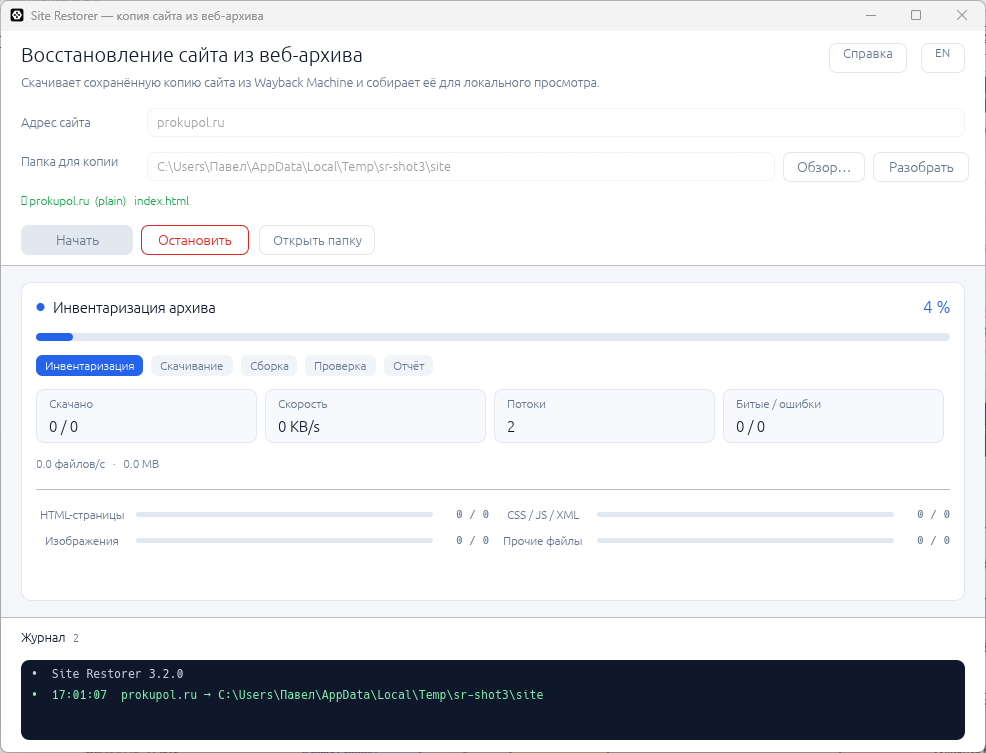
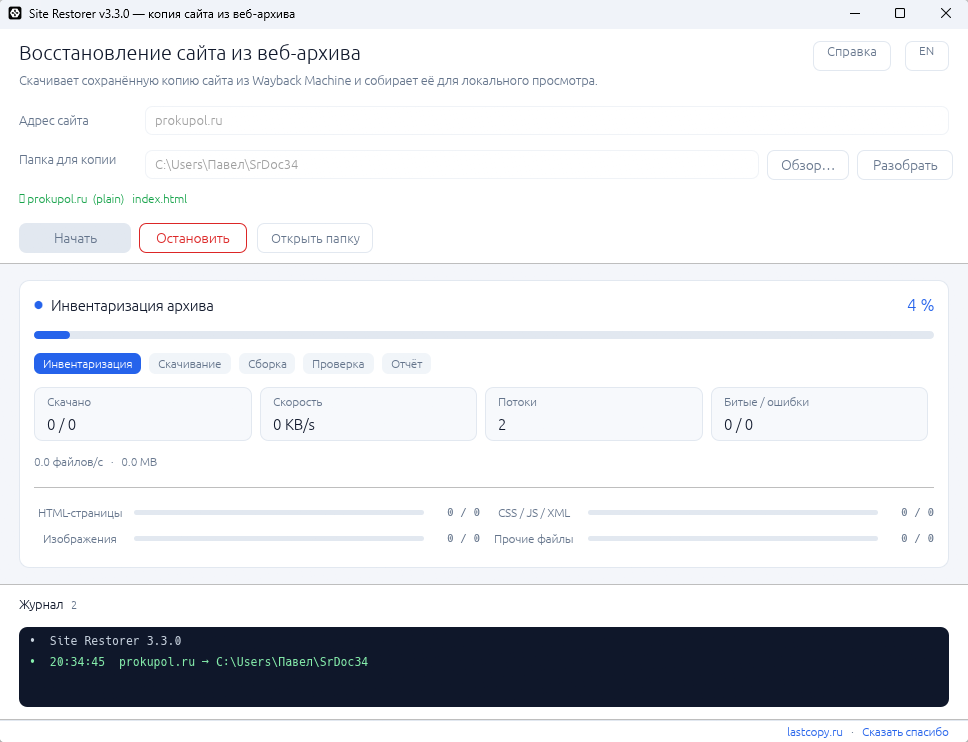
feat(ui): version in the title bar and links in the bottom strip
Window title is built as 'Site Restorer v<version> - <subtitle>' so the number
always matches --version. A new bottom panel holds the product site and the
support link; it is declared before the log panel, otherwise it would sit above
the log. Links open the default browser on click only, and a failure is logged
as a warning instead of interrupting the run.

Requirements: FT-113 (title), FT-114 (site link), FT-115 (support link),
BZ-12 (click-only links), ER-11 (strip look), PRM-13 (acceptance check).
TZ 2.5, DESIGN 1.3, screenshots refreshed.

Tests 63 instead of 60.

diff --git a/landing/index.html b/landing/index.html
@@ -189,7 +189,7 @@
 
       <figure class="hero-media">
         <div class="shot">
-          <img src="assets/img/screenshot-running.png" width="986" height="753" alt="Окно Site Restorer: скачивание архива, плитки прогресса, полосы по типам файлов и журнал запросов с метками времени" fetchpriority="high">
+          <img src="assets/img/screenshot-running.png" width="968" height="742" alt="Окно Site Restorer: скачивание архива, плитки прогресса, полосы по типам файлов и журнал запросов с метками времени" fetchpriority="high">
         </div>
         <figcaption class="shot-caption">Программа в работе: скачивание архива, скорость, потоки и журнал каждого запроса.</figcaption>
       </figure>

diff --git a/landing/en/index.html b/landing/en/index.html
@@ -189,7 +189,7 @@
 
       <figure class="hero-media">
         <div class="shot">
-          <img src="../assets/img/screenshot-running.png" width="986" height="753" alt="Site Restorer window: archive download, progress tiles, per-type bars and a timestamped request log" fetchpriority="high">
+          <img src="../assets/img/screenshot-running.png" width="968" height="742" alt="Site Restorer window: archive download, progress tiles, per-type bars and a timestamped request log" fetchpriority="high">
         </div>
         <figcaption class="shot-caption">Working: archive download, speed, threads and a log entry for every request.</figcaption>
       </figure>

diff --git a/src/app.rs b/src/app.rs
@@ -201,6 +201,15 @@ impl App {
         }
     }
 
+    /// Внешняя ссылка: открываем браузером по умолчанию. Неудачу показываем
+    /// предупреждением в журнале — окно и прогон продолжают работать (ФТ-114).
+    fn open_link(&mut self, url: &str) {
+        if let Err(err) = crate::links::open(url) {
+            let text = format!("{}{}", self.lang.t().link_failed, err);
+            self.push_log(text, Level::Warn);
+        }
+    }
+
     fn analyse(&mut self) {
         self.normalize_field(false);
     }
@@ -775,6 +784,42 @@ impl eframe::App for App {
                     band.bottom(),
                     egui::Stroke::new(1.0, BORDER),
                 );
+            });
+
+        // ---------- нижняя полоса со ссылками ----------
+        // Панели-«прилипалы» разбирают края окна в порядке объявления, поэтому
+        // полоса объявлена до журнала: иначе она заняла бы место над ним.
+        egui::Panel::bottom("footer")
+            .resizable(false)
+            .exact_size(24.0)
+            .frame(egui::Frame::new().fill(WHITE))
+            .show(ui, |ui| {
+                let rect = ui.max_rect();
+                ui.painter()
+                    .hline(rect.x_range(), rect.top(), egui::Stroke::new(1.0, BORDER));
+                ui.style_mut().visuals.hyperlink_color = ACCENT;
+                ui.horizontal_centered(|ui| {
+                    ui.with_layout(egui::Layout::right_to_left(egui::Align::Center), |ui| {
+                        ui.add_space(20.0);
+                        let thanks = ui
+                            .add(egui::Link::new(
+                                egui::RichText::new(t.footer_thanks).size(11.5),
+                            ))
+                            .on_hover_text(t.footer_thanks_hint);
+                        if thanks.clicked() {
+                            self.open_link(crate::links::SUPPORT);
+                        }
+                        ui.label(egui::RichText::new("·").size(11.5).color(MUTED));
+                        let site = ui
+                            .add(egui::Link::new(
+                                egui::RichText::new(t.footer_site).size(11.5),
+                            ))
+                            .on_hover_text(t.footer_site_hint);
+                        if site.clicked() {
+                            self.open_link(crate::links::SITE);
+                        }
+                    });
+                });
             });
 
         // ---------- журнал ----------

diff --git a/src/links.rs b/src/links.rs
@@ -1,0 +1,64 @@
+//! Внешние ссылки: адреса и открытие браузером по умолчанию.
+//!
+//! Адреса заданы здесь в одном месте: их нельзя набирать в разметке окна,
+//! иначе они разойдутся с требованиями ФТ-114 и ФТ-115.
+
+use crate::i18n::Lang;
+
+/// Сайт продукта.
+pub const SITE: &str = "https://lastcopy.ru/";
+/// Страница поддержки автора.
+pub const SUPPORT: &str = "https://boosty.to/explosion/donate";
+
+/// Заголовок окна: имя, версия сборки и подзаголовок выбранного языка.
+///
+/// Версия подставляется из `Cargo.toml`, поэтому при выпуске новой версии
+/// заголовок меняется сам и не расходится с `--version`.
+pub fn window_title(lang: Lang) -> String {
+    format!("Site Restorer v{} — {}", crate::APP_VERSION, lang.t().title)
+}
+
+/// Открывает адрес в браузере по умолчанию.
+///
+/// Ошибку возвращаем текстом: её пишут в журнал, окно при этом продолжает
+/// работать — прогон не прерывается и прогресс не сбрасывается.
+pub fn open(url: &str) -> Result<(), String> {
+    #[cfg(target_os = "windows")]
+    let spawned = std::process::Command::new("rundll32")
+        .arg("url.dll,FileProtocolHandler")
+        .arg(url)
+        .spawn();
+    #[cfg(not(target_os = "windows"))]
+    let spawned = std::process::Command::new("xdg-open").arg(url).spawn();
+    spawned.map(|_| ()).map_err(|err| err.to_string())
+}
+
+#[cfg(test)]
+mod tests {
+    use super::*;
+
+    #[test]
+    fn addresses_are_exact() {
+        assert_eq!(SITE, "https://lastcopy.ru/");
+        assert_eq!(SUPPORT, "https://boosty.to/explosion/donate");
+    }
+
+    #[test]
+    fn addresses_are_plain_https_without_tracking() {
+        for url in [SITE, SUPPORT] {
+            assert!(url.starts_with("https://"), "{url}");
+            assert!(!url.contains('?'), "{url}");
+            assert!(!url.contains("utm_"), "{url}");
+        }
+    }
+
+    #[test]
+    fn title_has_product_name_and_version() {
+        for lang in [Lang::Ru, Lang::En] {
+            let title = window_title(lang);
+            assert!(title.starts_with("Site Restorer v"), "{title}");
+            assert!(title.contains(crate::APP_VERSION), "{title}");
+            assert_eq!(title.matches('—').count(), 1, "{title}");
+        }
+    }
+}

diff --git a/src/i18n.rs b/src/i18n.rs
@@ -57,10 +57,15 @@ pub struct T {
     pub k_pause: &'static str,
     pub help_reset: &'static str,
     pub help_reset_done: &'static str,
+    pub footer_site: &'static str,
+    pub footer_site_hint: &'static str,
+    pub footer_thanks: &'static str,
+    pub footer_thanks_hint: &'static str,
+    pub link_failed: &'static str,
 }
 
 pub static RU: T = T {
-    title: "Site Restorer — копия сайта из веб-архива",
+    title: "копия сайта из веб-архива",
     heading: "Восстановление сайта из веб-архива",
     subtitle: "Скачивает сохранённую копию сайта из Wayback Machine и собирает её для локального просмотра.",
     site: "Адрес сайта",
@@ -109,6 +114,11 @@ pub static RU: T = T {
     k_pause: "пауза, с:",
     help_reset: "Сбросить настройки",
     help_reset_done: "настройки сброшены",
+    footer_site: "lastcopy.ru",
+    footer_site_hint: "Открыть сайт программы в браузере",
+    footer_thanks: "Сказать спасибо",
+    footer_thanks_hint: "Поддержать автора: boosty.to/explosion",
+    link_failed: "не удалось открыть ссылку: ",
     help_text: "ЧТО ДЕЛАЕТ ПРОГРАММА\n\
 Скачивает из Wayback Machine (Internet Archive) все сохранённые страницы и файлы\n\
 указанного сайта и собирает статическую копию для локального просмотра.\n\n\
@@ -132,7 +142,7 @@ site-restorer --cli --site <адрес> --out <папка> [--limit N] [--worker
 };
 
 pub static EN: T = T {
-    title: "Site Restorer — a website copy from the web archive",
+    title: "a website copy from the web archive",
     heading: "Restore a website from the web archive",
     subtitle: "Downloads the archived copy of a site from the Wayback Machine and builds it for local viewing.",
     site: "Site address",
@@ -181,6 +191,11 @@ pub static EN: T = T {
     k_pause: "pause, s:",
     help_reset: "Reset settings",
     help_reset_done: "settings reset",
+    footer_site: "lastcopy.ru",
+    footer_site_hint: "Open the product site in the browser",
+    footer_thanks: "Say thanks",
+    footer_thanks_hint: "Support the author: boosty.to/explosion",
+    link_failed: "could not open the link: ",
     help_text: "WHAT IT DOES\n\
 Downloads every archived page and file of a site from the Wayback Machine\n\
 (Internet Archive) and builds a static copy for local viewing.\n\n\

diff --git a/src/main.rs b/src/main.rs
@@ -17,6 +17,8 @@ mod core;
 mod encoding;
 #[cfg(feature = "gui")]
 mod i18n;
+#[cfg(feature = "gui")]
+mod links;
 mod paths;
 #[cfg(feature = "gui")]
 mod pick;
@@ -187,11 +189,12 @@ fn main() {
         unsafe {
             init_com();
         }
-        let title = if std::env::var("SR_LANG").as_deref() == Ok("en") {
-            i18n::EN.title
+        let lang = if std::env::var("SR_LANG").as_deref() == Ok("en") {
+            i18n::Lang::En
         } else {
-            i18n::RU.title
+            i18n::Lang::Ru
         };
+        let title = links::window_title(lang);
         let options = eframe::NativeOptions {
             renderer: eframe::Renderer::Glow,
             // На Windows вставку и копирование ведём сами (см. src/clip.rs):

diff --git a/CHANGELOG.md b/CHANGELOG.md
@@ -1,5 +1,23 @@
 # Changelog
 
+## 3.3.0 — 2026-11-10
+
+**Версия в заголовке окна.** Заголовок собирается как «Site Restorer v3.3.0 — подзаголовок»:
+номер берётся из версии сборки, поэтому после выпуска новой версии он не расходится с выводом
+`--version`. В английской сборке — тот же шаблон с английским подзаголовком.
+
+**Нижняя полоса со ссылками.** В самой нижней строке окна, под журналом, — две ссылки: сайт
+продукта lastcopy.ru и «Сказать спасибо» (страница поддержки автора). Открываются браузером
+по умолчанию и только по клику: сама программа к этим адресам не обращается и параметров
+отслеживания не добавляет. Если браузер открыть не удалось, в журнал пишется предупреждение,
+окно и прогон продолжают работу.
+
+**Требования.** Новые ФТ-113 (версия в заголовке), ФТ-114 (ссылка на сайт), ФТ-115 (ссылка
+поддержки), БЗ-12 (внешние ссылки только по клику), ЭР-11 (вид полосы), ПРМ-13 (проверка);
+уточнена ЭК-7, перечень проверок окна дополнен. ТЗ версии 2.5, план — 2.3.
+
+Тестов 63 вместо 60: адреса ссылок, отсутствие параметров отслеживания и формат заголовка.
+
 ## 3.2.0 — 2026-11-10
 
 Релиз соответствия требованиям: закрыто всё, что техническое задание требовало, а продукт
